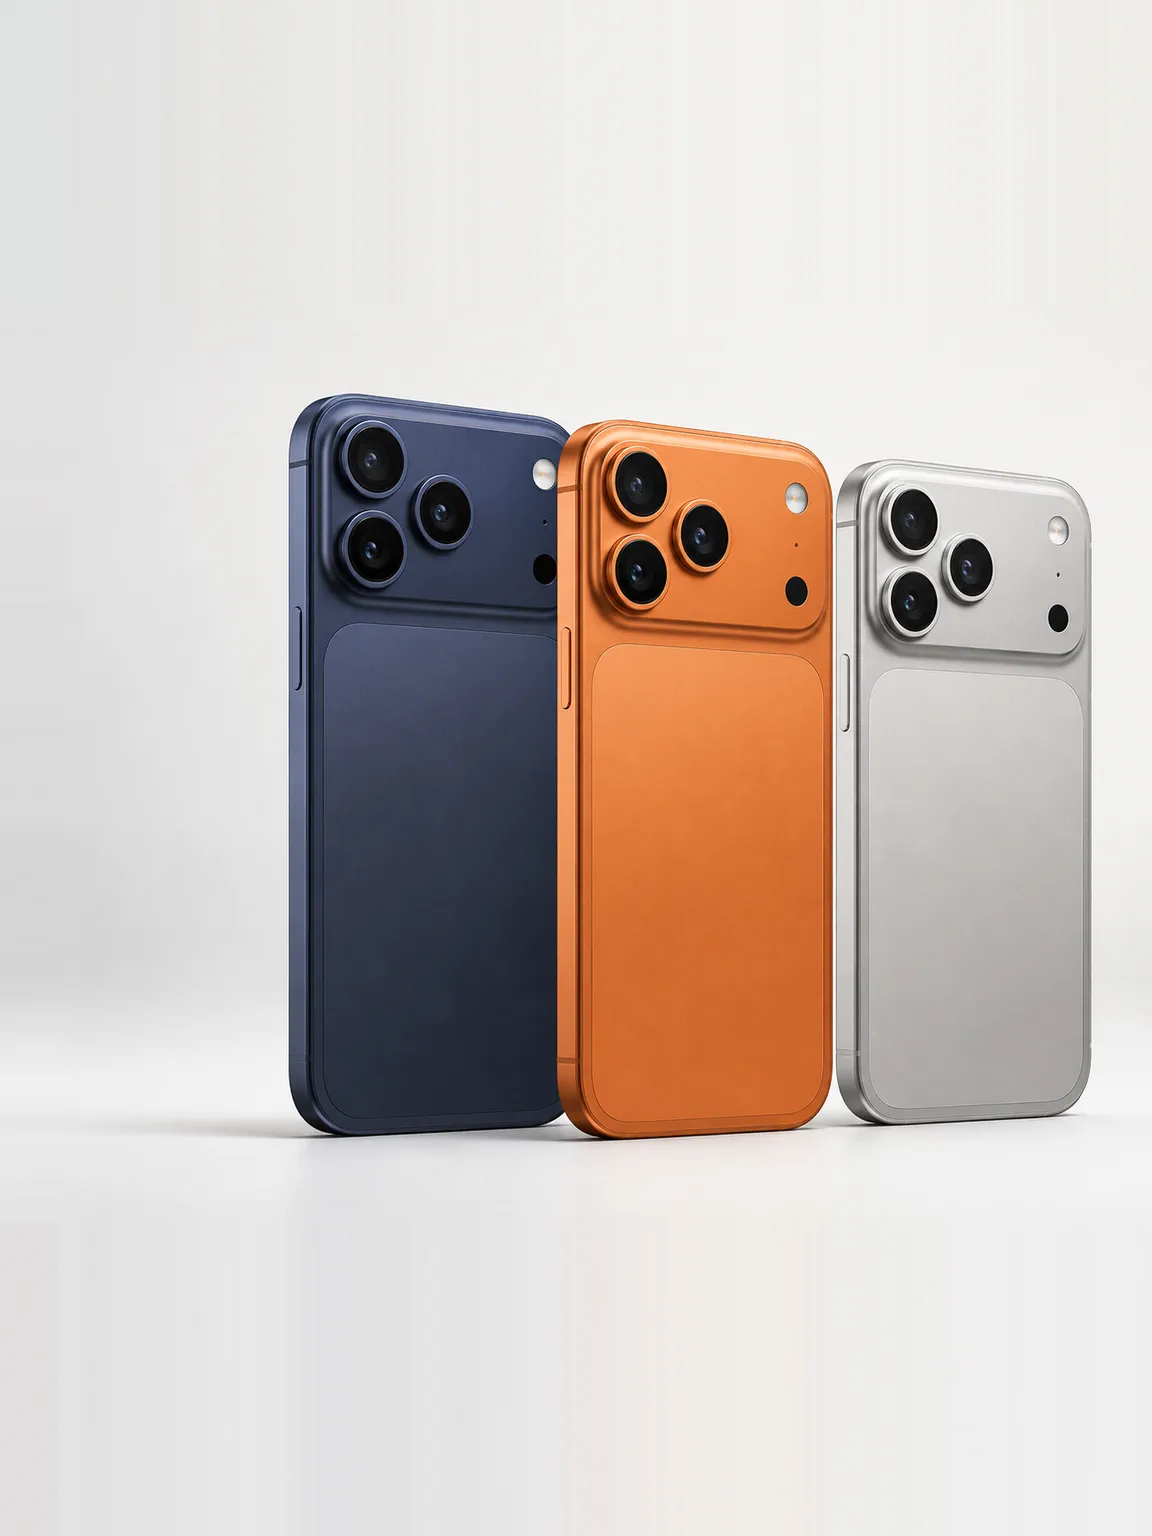
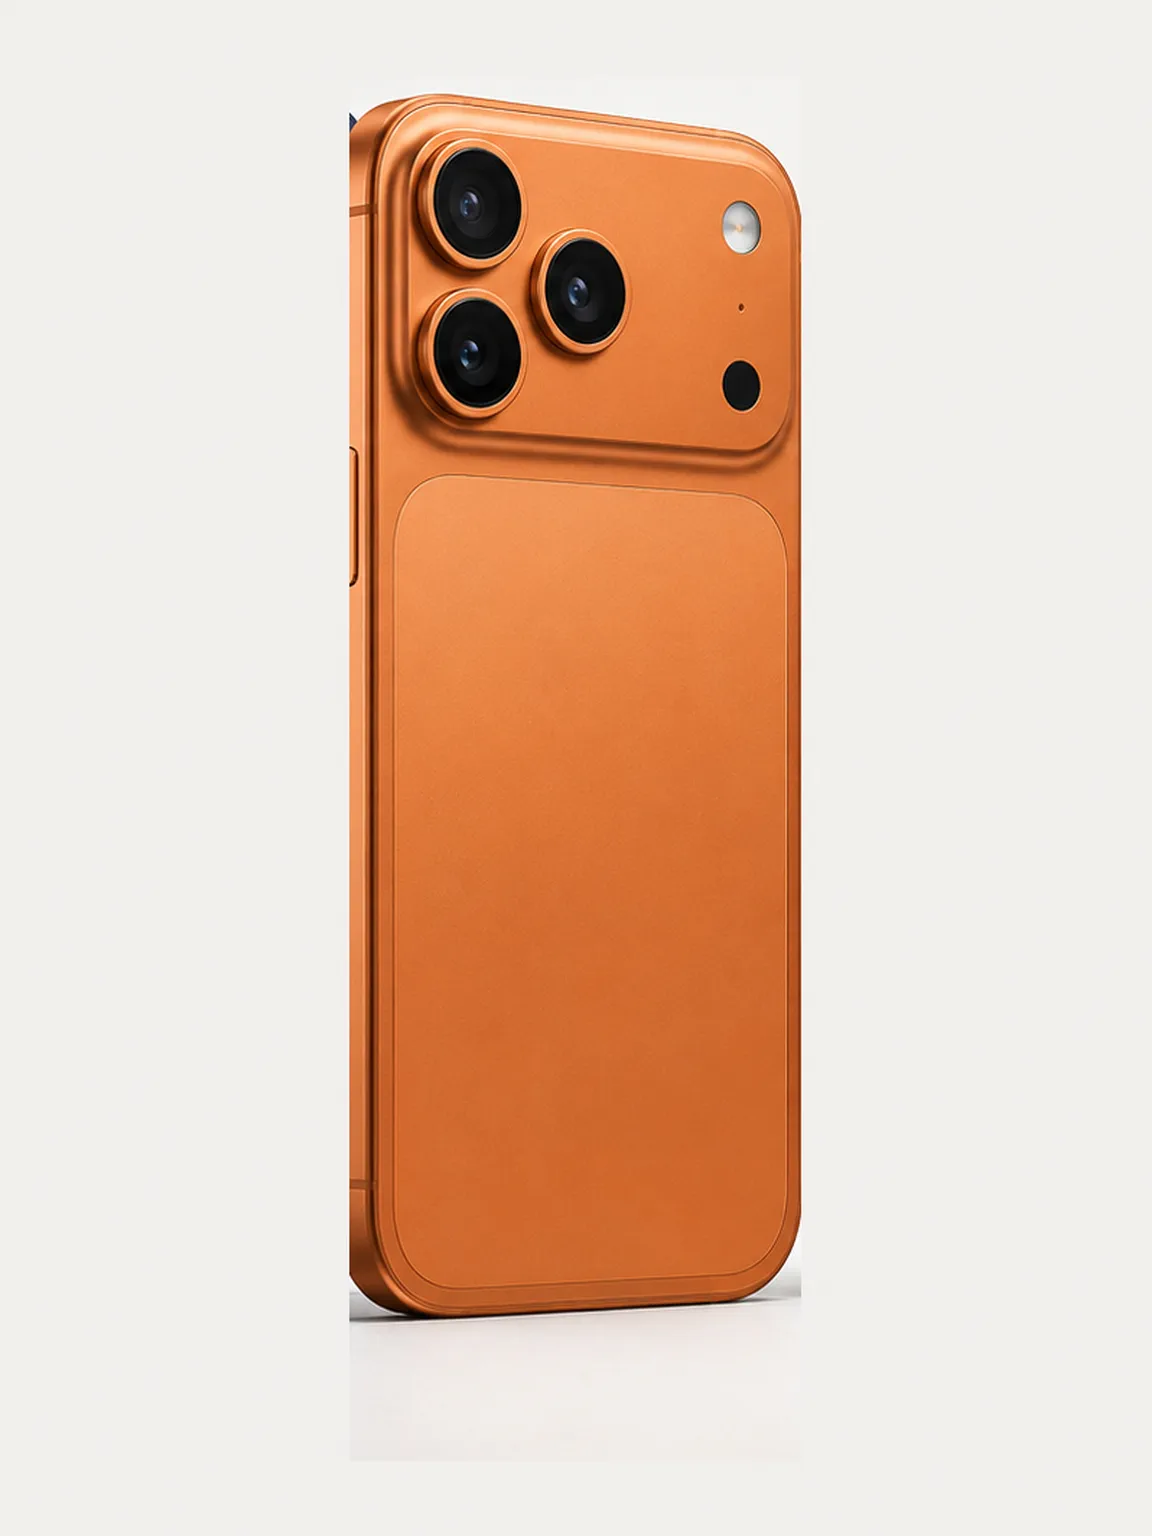
שני עמודי האייפון פרו מראים את המכשיר בגודל של כל השאר
מדדתי כמה מהפריים המכשיר תופס בכל 20 התמונות. שמונה עשרה מהן נחתו בין 82%
ל-95% מגובה הפריים, ושתיים על 45% ו-49%: שתי תמונות ה-iPhone 17 Pro הן
שלישייה לרוחב, ובפריים 3:4 שלישייה ממלאת את הרוחב ולא את הגובה. בעמוד זה
נראה כאילו הדגם הזה קטן בחצי מהשכן שלו.

התמונות האלה עוברות עכשיו חיתוך מקדים למכשיר האמצעי, ומשם הן ממשיכות
באותו נרמול כמו כולן. הן נוחתות על 80% ו-81%, והטווח כולו נסגר.

המחיר הוא שני הצבעים האחרים, שיורדים מהתמונה. זה נבחר ביודעין: עמוד מכשיר
מוכר מכשיר אחד, ועדיף להראות אותו כמו שצריך מאשר שלושה קטנים.

צבע הריפוד בחיתוך כזה נדגם מהחיתוך ולא מהתמונה המלאה. הרקע של הרנדרים כהה
יותר בפינות מאשר סביב המכשיר, וריפוד בצבע הפינה צייר מלבן בהיר גלוי בתוך
מסגרת כהה יותר. ההפרש היה ebeae7 מול f2f1ef, והוא נראה מטרים מהמסך.

הריפוד כאן שטוח ולא נמשח, כי קצה החיתוך הוא המכשיר עצמו ומשיחה הייתה
מותחת את דופן המכשיר לרוחב כל הריפוד.

מבחן הקבלה של מערכת העיצוב עובר על התמונה: רדיוס 0, קו שיער, בלי צל
ובלי מילוי חורג.

diff --git a/.claude/tools/gen-device-photos.js b/.claude/tools/gen-device-photos.js
@@ -66,6 +66,23 @@ var MAP = {
   'redmi note 15 pro': 'redmi-note-15-pro'
 };
 
+/* חיתוך מקדים, בשברים של המקור, למי שצריך אותו. הוא רץ לפני זיהוי תיבת התוכן, ולכן משם
+ * והלאה התמונה עוברת בדיוק את אותו נרמול כמו כל השאר.
+ *
+ * שתי תמונות ה-iPhone 17 Pro הן שלישייה לרוחב. בפריים 3:4 שלישייה כזאת ממלאת 95% מהרוחב
+ * אבל רק 47% מהגובה, בעוד ששאר 18 התמונות ממלאות 82% עד 95% מהגובה. מדדתי את כולן, וזה
+ * היה הפער היחיד שנראה בעין: אותו דגם נראה בעמוד שלו חצי מהגודל של השכן. החיתוך לוקח את
+ * המכשיר האמצעי בלבד, ואז הוא נוחת באותם 88% כמו כולם.
+ *
+ * המחיר: שני הצבעים האחרים יורדים מהתמונה. זה נבחר ביודעין, כי עמוד מכשיר מוכר מכשיר אחד.
+ *
+ * כשיש חיתוך כזה הריפוד נצבע שטוח ולא נמשח: קצה החיתוך הוא המכשיר עצמו ולא רקע, ומשיחה
+ * הייתה מותחת את דופן המכשיר לרוחב כל הריפוד. */
+var CROP = {
+  'iphone 17 pro max': { x: 0.4137, y: 0.1179, w: 0.2162, h: 0.8821 },
+  'iphone 17 pro':     { x: 0.4006, y: 0.1639, w: 0.2210, h: 0.8361 }
+};
+
 if (!SRC || !fs.existsSync(SRC)) {
   console.error('✗ צריך נתיב לתיקיית תמונות המקור.\n  node .claude/tools/gen-device-photos.js "<תיקייה>"');
   process.exit(1);
@@ -117,6 +134,27 @@ function analyze(file, w, h) {
   };
 }
 
+/* צבע הריפוד כשיש חיתוך מקדים: החציון של השורה העליונה והתחתונה של החיתוך בלבד.
+ *
+ * לא של התמונה המלאה, וזה ההבדל בין תמונה שנראית שלמה לתמונה שנראית מודבקת. הרקע של
+ * הרנדרים כהה יותר בפינות מאשר סביב המכשיר, וריפוד בצבע הפינה צייר מלבן בהיר גלוי בתוך
+ * מסגרת כהה יותר. ההפרש היה ebeae7 מול f2f1ef, שבע דרגות, וזה נראה מטרים משם.
+ *
+ * ולא כל ארבע הדפנות: שתי העמודות הן ברובן המכשיר עצמו, והחציון היה יוצא כתום. */
+function padColor(file, pre, w, h) {
+  var raw = run(['-v', 'error', '-i', file, '-vf', pre + 'scale=' + w + ':' + h,
+    '-frames:v', '1', '-f', 'rawvideo', '-pix_fmt', 'rgb24', '-'], { encoding: 'buffer' });
+  var a = [[], [], []], x, c;
+  for (x = 0; x < w; x++) for (c = 0; c < 3; c++) {
+    a[c].push(raw[(1 * w + x) * 3 + c]);
+    a[c].push(raw[((h - 2) * w + x) * 3 + c]);
+  }
+  return '0x' + a.map(function (v) {
+    v.sort(function (p, q) { return p - q; });
+    return ('0' + v[v.length >> 1].toString(16)).slice(-2);
+  }).join('');
+}
+
 var files = fs.readdirSync(SRC).filter(function (f) { return /\.png$/i.test(f); });
 if (!fs.existsSync(OUT)) fs.mkdirSync(OUT, { recursive: true });
 
@@ -126,9 +164,24 @@ files.forEach(function (f) {
   if (!slug) { skipped.push(f); return; }
 
   var file = path.join(SRC, f);
-  var size = pngSize(file);
-  if (!size) { console.error('✗ ' + f + ' אינו PNG תקין'); process.exit(1); }
-  var a = analyze(file, size.w, size.h);
+  var full = pngSize(file);
+  if (!full) { console.error('✗ ' + f + ' אינו PNG תקין'); process.exit(1); }
+
+  /* צבע הרקע נדגם תמיד מהתמונה המלאה, גם כשיש חיתוך מקדים. בתוך החיתוך אין רקע כלל,
+   * ודגימה משם הייתה מחזירה את צבע המכשיר ומרפדת את הפריים בכתום. */
+  var a = analyze(file, full.w, full.h);
+  var cut = CROP[path.basename(f, path.extname(f)).toLowerCase()];
+  var pre = '', size = full;
+  if (cut) {
+    var q = {
+      x: Math.round(cut.x * full.w), y: Math.round(cut.y * full.h),
+      w: Math.round(cut.w * full.w), h: Math.round(cut.h * full.h)
+    };
+    pre = 'crop=' + q.w + ':' + q.h + ':' + q.x + ':' + q.y + ',';
+    size = { w: q.w, h: q.h };
+    a.box = { x: 0, y: 0, w: 1, h: 1 };   /* החיתוך הוא המכשיר, ואין בו מה לזהות */
+    a.bg = padColor(file, pre, Math.min(q.w, 320), Math.min(q.h, 960));
+  }
 
   /* תיבת התוכן בפיקסלים של המקור, ואז ריבוע־על ביחס 3:4 שמכיל אותה עם שוליים.
    * התיבה מורחבת ולא נחתכת, ולכן גם אם הזיהוי טעה בכמה פיקסלים שום תוכן לא נחתך. */
@@ -158,15 +211,17 @@ files.forEach(function (f) {
    * הרנדרים יושבים על מדרג עדין. שם פס בצבע קבוע נראה כתפר אנכי בקצה התמונה, והמשיחה
    * ממשיכה את המדרג עצמו. pad נשאר לפניו כי fillborders אינו יכול להגדיל את הפריים. */
   var bord = [];
-  if (px > 0) bord.push('left=' + px);
-  if (W - cw - px > 0) bord.push('right=' + (W - cw - px));
-  if (py > 0) bord.push('top=' + py);
-  if (H - ch - py > 0) bord.push('bottom=' + (H - ch - py));
+  if (!cut) {
+    if (px > 0) bord.push('left=' + px);
+    if (W - cw - px > 0) bord.push('right=' + (W - cw - px));
+    if (py > 0) bord.push('top=' + py);
+    if (H - ch - py > 0) bord.push('bottom=' + (H - ch - py));
+  }
 
   WIDTHS.forEach(function (w) {
     var out = path.join(OUT, slug + '-' + w + '.webp');
     run(['-v', 'error', '-y', '-i', file,
-      '-vf', 'crop=' + cw + ':' + ch + ':' + cx + ':' + cy +
+      '-vf', pre + 'crop=' + cw + ':' + ch + ':' + cx + ':' + cy +
              ',pad=' + W + ':' + H + ':' + px + ':' + py + ':' + a.bg +
              (bord.length ? ',fillborders=' + bord.join(':') + ':mode=smear' : '') +
              ',scale=' + w + ':' + Math.round(w / RATIO) + ':flags=lanczos',
